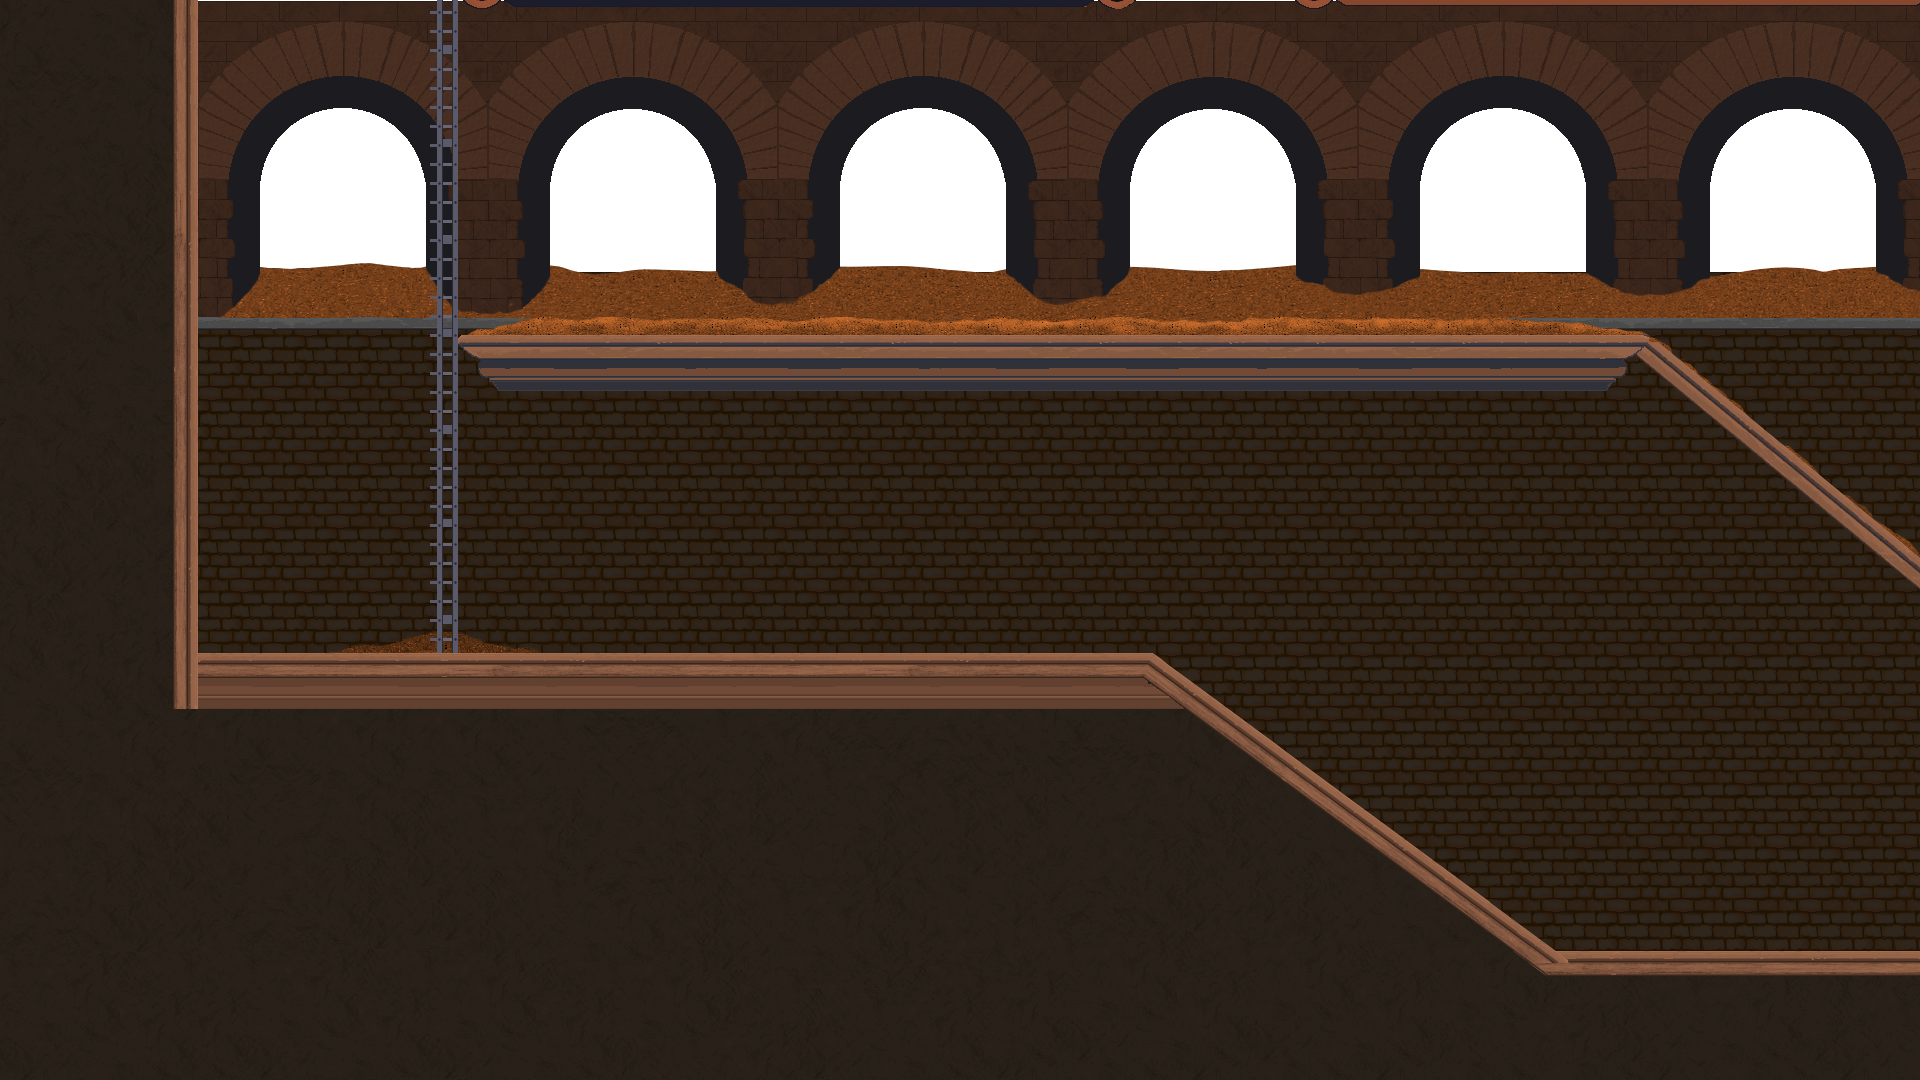
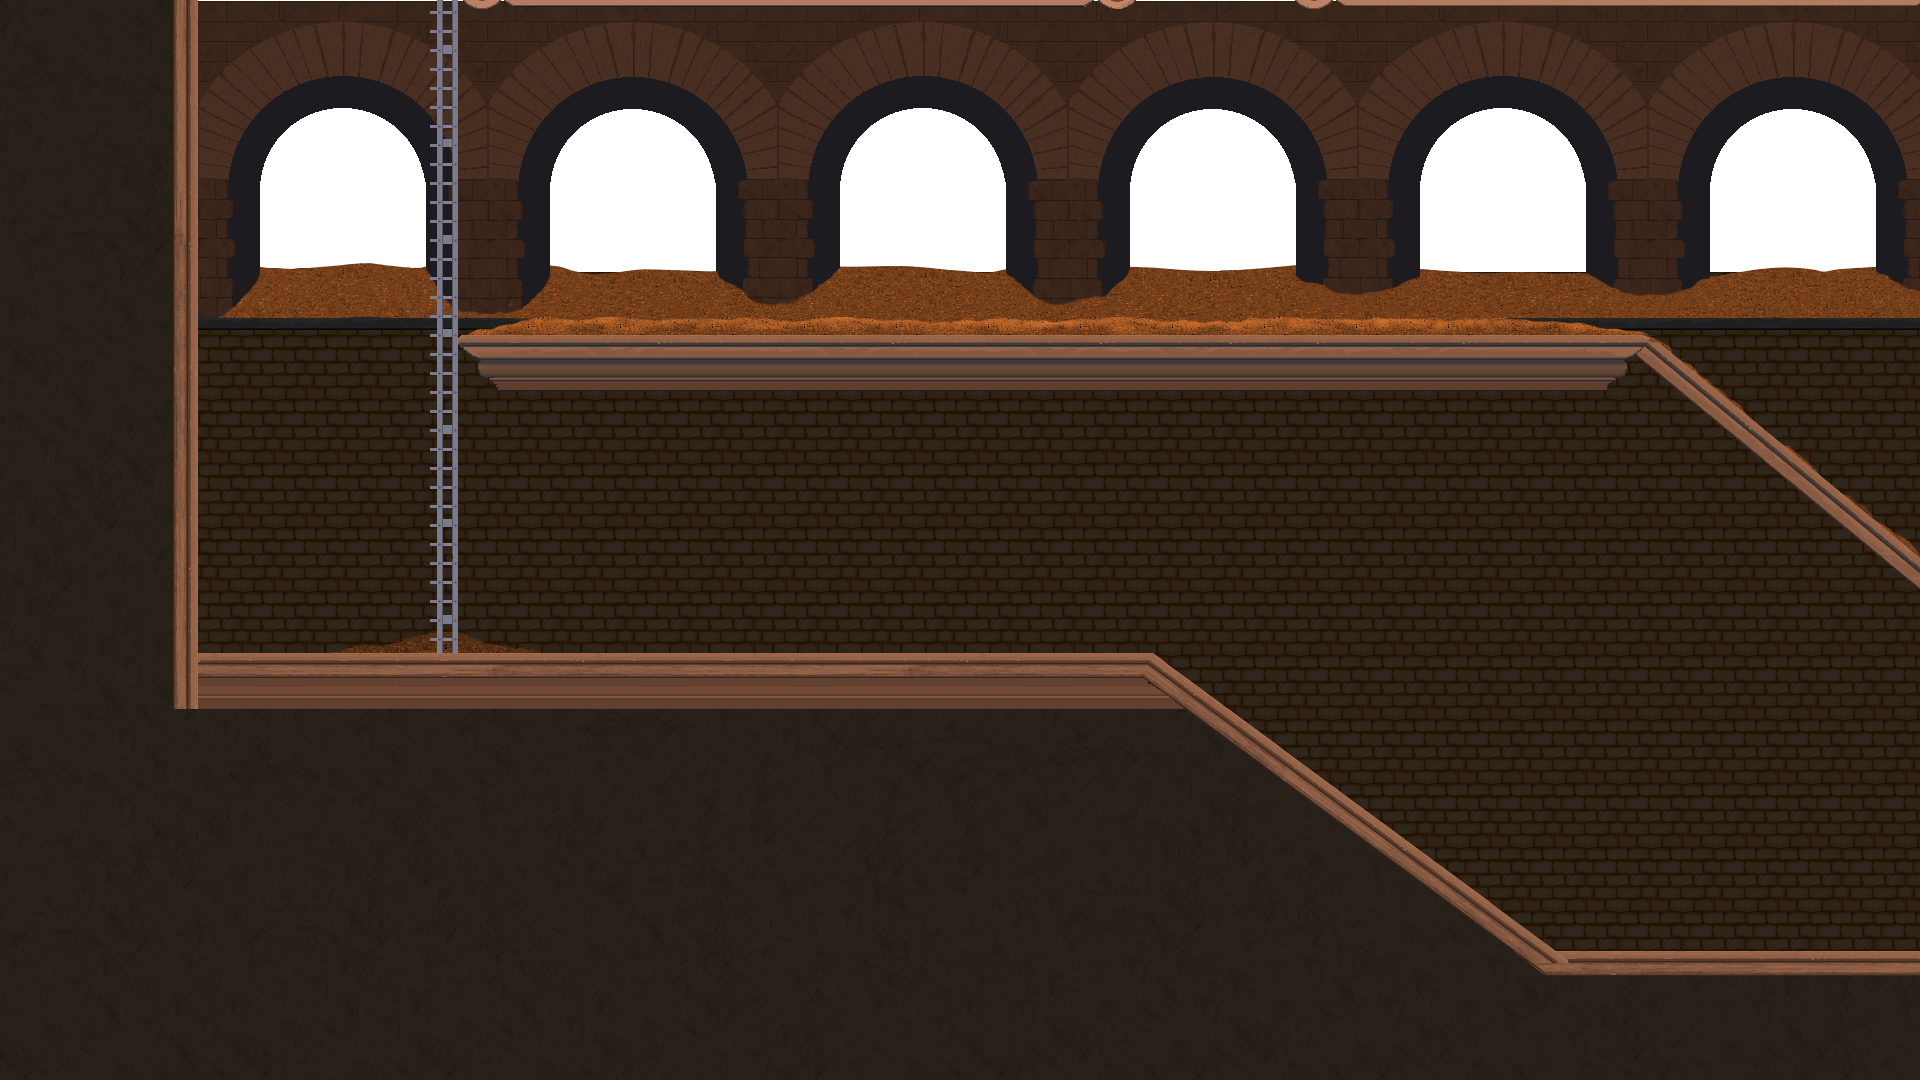
Added new background. Added new aim and mouse movement.

Changed region(s): [[0.0938, 0.0, 0.8438, 0.6111], [0.6875, 0.0, 1.0, 0.0306], [0.8125, 0.275, 1.0, 0.3056]]

diff --git a/src/scenes/sandbox_scene.cpp b/src/scenes/sandbox_scene.cpp
@@ -309,8 +309,8 @@ namespace arena
 				glm::vec2 pos = *elem.second->m_gladiator->m_position;
 				transform->m_position= glm::vec2(pos.x - 20.0f, pos.y - 60.0f);
 
-				if (rand() % 1000)
-					createTestEntity(glm::vec2(pos.x, pos.y));
+				//if (rand() % 1000)
+				//	createTestEntity(glm::vec2(pos.x, pos.y));
 			}
 
 			updateCameraPosition();
@@ -750,7 +750,15 @@ namespace arena
 					{
 						render->setColor(color::toABGR(255, 255, 255, (uint8_t)timer->timePassedReverse255() / 1));
 					}
-					
+					if (entityId->m_id == EntityIdentification::Magazine)
+					{
+						// fade out magazine after certain time.
+						Timer* timer = (Timer*)entity->first(TYPEOF(Timer));
+						if (timer->m_currentTime/timer->m_lifeTime > 0.7f)
+						{
+							render->setColor(color::toABGR(255, 255, 255, (uint8_t)(timer->timePassedReverse255() * 2.5)));
+						}
+					}
 				}
 
 				
@@ -830,7 +838,7 @@ namespace arena
 					Transform* transform = (Transform*)entity->first(TYPEOF(Transform));
 					// Parallex scrolling.
 					// use movement component as offset component.
-					glm::vec2 mapOffset = glm::vec2(playerTransform->m_position.x *1.2f, playerTransform->m_position.y *1.2f);
+					glm::vec2 mapOffset = glm::vec2(playerTransform->m_position.x *1.05f, playerTransform->m_position.y *1.05f);
 					// HAX: velocity is original position, too lazy to create originalposition-component or something like that
 					transform->m_position = glm::vec2(movement->m_velocity.x + mapOffset.x, movement->m_velocity.y + mapOffset.y);
 				}
@@ -1748,20 +1756,76 @@ namespace arena
 		const MouseState& mouse = Mouse::getState();
 		// TODO: get real resolution
 		rotatePlayerAim();
+		glm::vec2 movement = glm::vec2(mouse.m_mrx, mouse.m_mry);
+		if (movement.x == m_mouseValues.x && movement.y == m_mouseValues.y)
+			movement = glm::ivec2(0,0);
+		m_mouseValues = glm::vec2(mouse.m_mrx, mouse.m_mry);
 
+			
+		//if (-2 < movement.x && movement.x< 2)
+		//	movement.x = 0;
+		//if (-2 < movement.y && movement.y< 2)
+		//	movement.y = 0;
+		/*
 		glm::vec2 cameraPositionOnMouse = glm::vec2(-m_screenSize.x / 2 + mouse.m_mx, -m_screenSize.y / 2 + mouse.m_my);
 		glm::vec2 movement = cameraPositionOnMouse + oldMousePos;
 		glm::vec2 cameraPosition = glm::vec2(oldMousePos.x + movement.x + playerPosition.x, oldMousePos.y + movement.y + playerPosition.y);
 		oldMousePos = cameraPositionOnMouse;
+		*/
+		
+		glm::vec2 cameraPosition = glm::vec2(0, 0);
 		// Adjust the aim position where bullets drop.
+		printf("mouse relative position: %d, %d\n", mouse.m_mrx, mouse.m_mry);
 		if (mousePointerEntity != nullptr)
 		{
+			
 			Transform* mouseTransform = (Transform* const)mousePointerEntity->first(TYPEOF(Transform));
+			
+			glm::vec2 newPosition = mouseTransform->m_position + movement;
+			if (newPosition.x < 0)
+			{
+				newPosition.x = 0;
+			}
+			else if (newPosition.x > 8000)
+			{
+				newPosition.x = 8000;
+			}
+			if (newPosition.y < -200)
+			{
+				newPosition.y = -200;
+			}
+			else if (newPosition.y > 2500)
+			{
+				newPosition.y = 2500;
+			}
+			mouseTransform->m_position = newPosition;
+
+
+			cameraPosition = mouseTransform->m_position;
+			if (cameraPosition.x < 1000)
+			{
+				cameraPosition.x = 1000;
+			}
+			else if (cameraPosition.x > 9000)
+			{
+				cameraPosition.x = 9000;
+			}
+			if (cameraPosition.y < 400)
+			{
+				cameraPosition.y = 400;
+			}
+			else if (cameraPosition.y > 3000)
+			{
+				cameraPosition.y = 3000;
+			}
+			oldMousePos = cameraPosition;
+
+
 			SpriteRenderer* renderer = (SpriteRenderer* const)mousePointerEntity->first(TYPEOF(SpriteRenderer));
 			renderer->setRotation(m_clientIdToGladiatorData[m_playerId]->m_gladiator->m_aimAngle + 1.5708f);
-			mouseTransform->m_position = cameraPosition + glm::vec2(-13.0f, +80.0f);
 			renderer->setLayer(4);
 		}
+		
 		//checkBounds(cameraPosition);
 		camera.m_position = cameraPosition;
 		camera.calculate();
@@ -1779,11 +1843,13 @@ namespace arena
 	{
 		float xOffset = m_clientIdToGladiatorData[m_playerId]->m_animator->m_animator.m_shoulderPoint.x;
 		float yOffset = m_clientIdToGladiatorData[m_playerId]->m_animator->m_animator.m_shoulderPoint.y;
-		const MouseState& mouse = Mouse::getState();
+		//const MouseState& mouse = Mouse::getState();
 
-		glm::vec2 mouseLoc(mouse.m_mx, mouse.m_my);
-		Camera& camera = App::instance().camera();
-		transform(mouseLoc, glm::inverse(camera.m_matrix), &mouseLoc);
+		Transform* mouseTransform = (Transform* const)mousePointerEntity->first(TYPEOF(Transform));
+		glm::vec2 mouseLoc = mouseTransform->m_position;
+	//	glm::vec2 mouseLoc(mouse.m_mx, mouse.m_my);
+	//	Camera& camera = App::instance().camera();
+		//transform(mouseLoc, glm::inverse(camera.m_matrix), &mouseLoc);
 		Transform* playerTransform = (Transform* const)m_clientIdToGladiatorData[m_playerId]->m_entity->first(TYPEOF(Transform));
 		m_weaponRotationPoint = glm::vec2(playerTransform->m_position.x + 9 + xOffset, playerTransform->m_position.y + 14 - yOffset);
 		glm::vec2 dir(mouseLoc - m_weaponRotationPoint);

diff --git a/src/main.cpp b/src/main.cpp
@@ -264,10 +264,12 @@ namespace arena
                     case SDL_MOUSEMOTION:
                     {
                         const SDL_MouseMotionEvent& mev = event.motion;
+						 mev.xrel;
                         m_mx = mev.x;
                         m_my = mev.y;
-
-                        m_eventQueue.postMouseEvent(m_window, m_mx, m_my, m_mz);
+						m_mrx = mev.xrel;
+						m_mry = mev.yrel;
+                        m_eventQueue.postMouseEvent(m_window, m_mx, m_my, m_mz, m_mrx, m_mry);
                         break;
                     }
                     
@@ -302,7 +304,7 @@ namespace arena
                         const SDL_MouseWheelEvent& mev = event.wheel;
                         m_mz += mev.y;
 
-                        m_eventQueue.postMouseEvent(m_window, m_mx, m_my, m_mz);
+                        m_eventQueue.postMouseEvent(m_window, m_mx, m_my, m_mz, m_mrx, m_mry);
 
                     }
                     break;
@@ -416,7 +418,8 @@ namespace arena
         int32_t m_mx;
         int32_t m_my;
         int32_t m_mz;
-
+		int32_t m_mrx;
+		int32_t m_mry;
         SDL_Window* m_window;
 
         EventQueue m_eventQueue;
@@ -434,6 +437,10 @@ namespace arena
             s_ctx.m_height = height;
 
             SDL_SetWindowSize(s_ctx.m_window, width, height);
+			SDL_SetWindowGrab(s_ctx.m_window, SDL_bool::SDL_TRUE);
+			SDL_SetWindowTitle(s_ctx.m_window, "Areenajabat");
+			SDL_SetRelativeMouseMode(SDL_bool::SDL_TRUE);
+			SDL_ShowCursor(0);
             s_ctx.m_eventQueue.postSizeEvent(s_ctx.m_window, width, height);
         }
     }

diff --git a/src/input/event.h b/src/input/event.h
@@ -65,6 +65,8 @@ namespace arena
         int32_t m_mx;
         int32_t m_my;
         int32_t m_mz;
+		int32_t m_rx;
+		int32_t m_ry;
         MouseButton::Enum m_button;
         bool m_down;
         bool m_move;
@@ -146,12 +148,14 @@ namespace arena
             m_queue.push(ev);
         }
 
-        void postMouseEvent(SDL_Window* _handle, int32_t _mx, int32_t _my, int32_t _mz)
+        void postMouseEvent(SDL_Window* _handle, int32_t _mx, int32_t _my, int32_t _mz, int32_t _mrx, int32_t _mry)
         {
             MouseEvent* ev = new MouseEvent(_handle);
             ev->m_mx = _mx;
             ev->m_my = _my;
             ev->m_mz = _mz;
+			ev->m_rx = _mrx;
+			ev->m_ry = _mry;
             ev->m_button = MouseButton::None;
             ev->m_down = false;
             ev->m_move = true;

diff --git a/src/input/input.h b/src/input/input.h
@@ -182,7 +182,9 @@ namespace arena
             : m_mx(0)
             , m_my(0)
             , m_mz(0)
-        {
+			, m_mrx(0)
+			, m_mry(0)
+		{ 
             for (uint32_t ii = 0; ii < arena::MouseButton::Count; ++ii)
             {
                 m_buttons[ii] = arena::MouseButton::None;
@@ -192,6 +194,8 @@ namespace arena
         int32_t m_mx;
         int32_t m_my;
         int32_t m_mz;
+		int32_t m_mrx;
+		int32_t m_mry;
         uint8_t m_buttons[arena::MouseButton::Count];
     };
 

diff --git a/network/game_host.cpp b/network/game_host.cpp
@@ -585,6 +585,7 @@ namespace arena
 		for (uint32 i = 0; i < bullets.size(); i++)
 		{
 			bullets[i]->setEntityID(getFreeEntityId());
+			bullets[i]->m_ownerId = gladiator->m_ownerId;
 			m_physics.addBulletWithID(bullets[i]->m_position, bullets[i]->m_impulse, bullets[i]->m_rotation, gladiator->getEntityID(), bullets[i]->getEntityID());
 			m_synchronizationList.push_back(bullets[i]);
 			registerEntity(bullets[i]);

diff --git a/src/app.cpp b/src/app.cpp
@@ -73,9 +73,13 @@ namespace arena
 					if (mouse->m_move)
 					{
 						inputSetMousePos(mouse->m_mx, mouse->m_my, mouse->m_mz);
+						
 						s_mouseState.m_mx = mouse->m_mx;
 						s_mouseState.m_my = mouse->m_my;
 						s_mouseState.m_mz = mouse->m_mz;
+						s_mouseState.m_mrx = mouse->m_rx;
+						s_mouseState.m_mry = mouse->m_ry;
+						
 					}
 					else
 					{

diff --git a/src/scenes/sandbox_scene.h b/src/scenes/sandbox_scene.h
@@ -143,6 +143,7 @@ namespace arena
 		uint8_t currentFreeId = 0;
 		uint8_t isIdFree[255];
 		bool debugBullets = false;
+		glm::ivec2 m_mouseValues{ 0,0 };
     };
 
 	static void inputMoveLeft(const void*);

diff --git a/network/game_host.h b/network/game_host.h
@@ -304,6 +304,8 @@ namespace arena
 		SessionVariables	m_sessionData;
 		Scoreboard*			m_scoreBoard;
 
+		
+
 		bool				m_disposed;
 		bool				m_endCalled;
 
